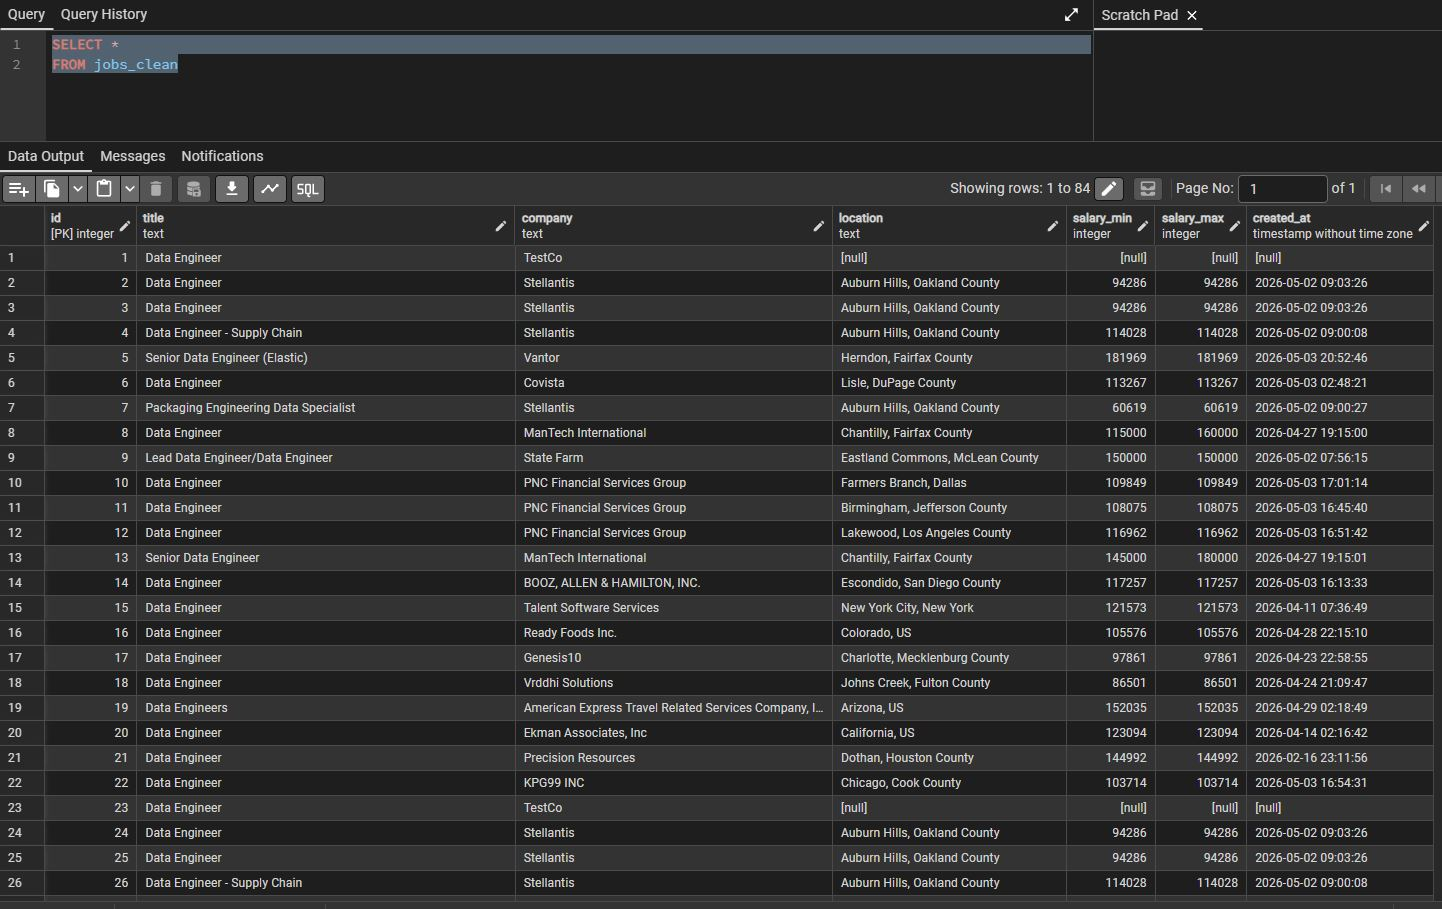
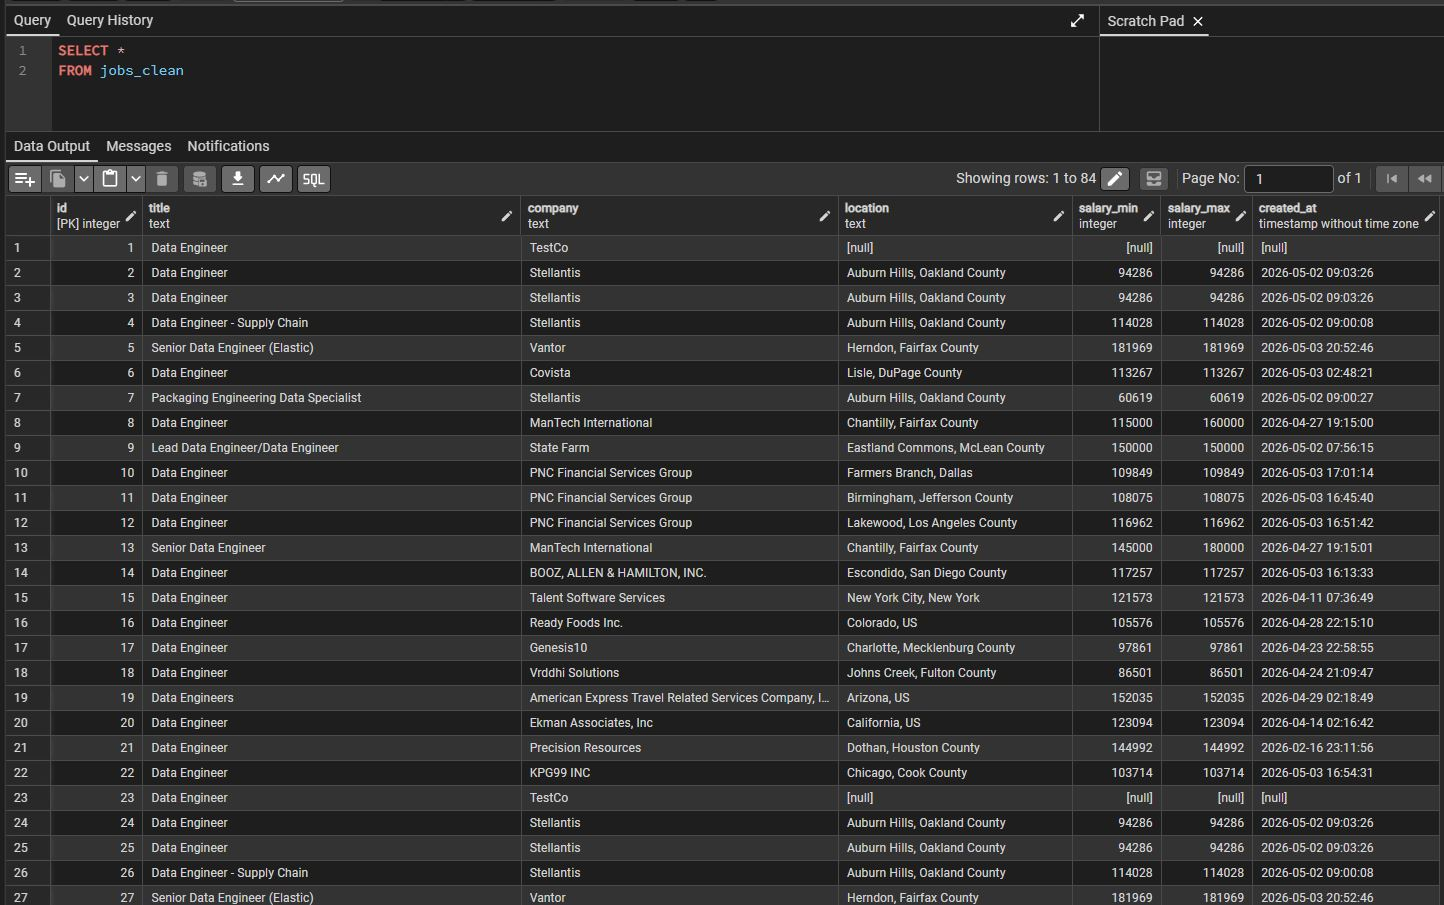
Fixing the transform script example image

Changed region(s): [[0.0, 0.1547, 1.0, 1.0], [0.0, 0.0, 0.8426, 0.0928], [0.9986, 0.9901, 1.0, 1.0]]

diff --git a/README.md b/README.md
@@ -39,14 +39,14 @@ This is an example of the result of the transform script.
 
 ![example of the result of the transform script](./images/ExampleTransformDB.JPG)
 
-
-## Why I built it this way.
+## Why I built it this way
 
 ## What are the limits and next steps
 
 ### Limits
 
 ### Next steps:
+- [ ] Refactor file structure and create a better README
 - [ ] Snowflake Implementation
 - [ ] dbt Implementation
 - [ ] Production-harden the pipeline ()
